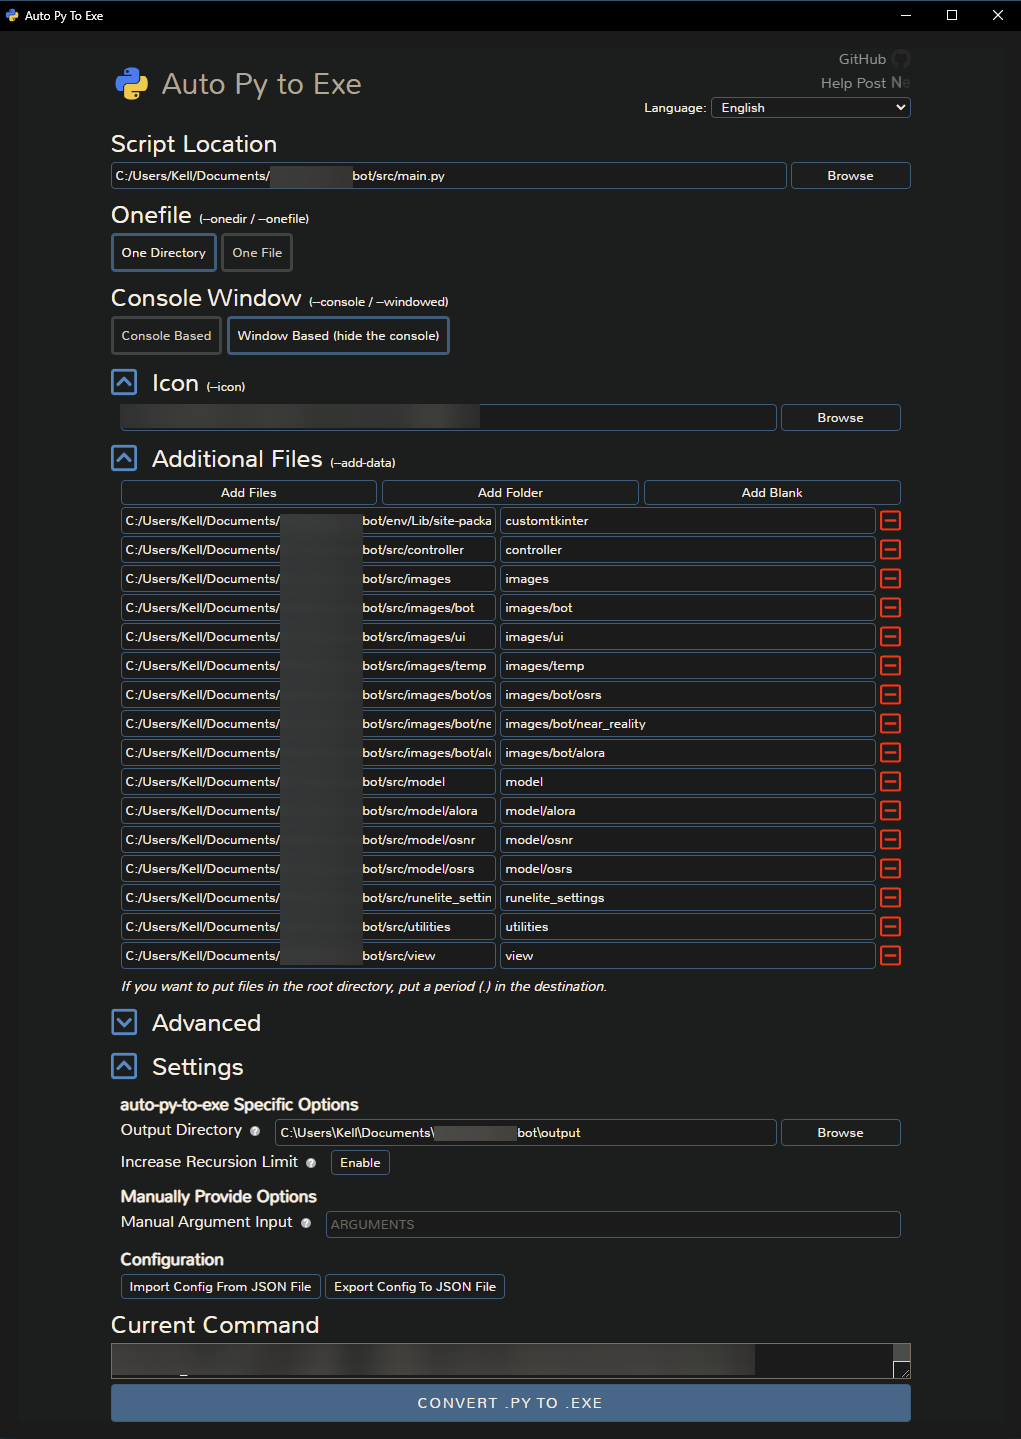
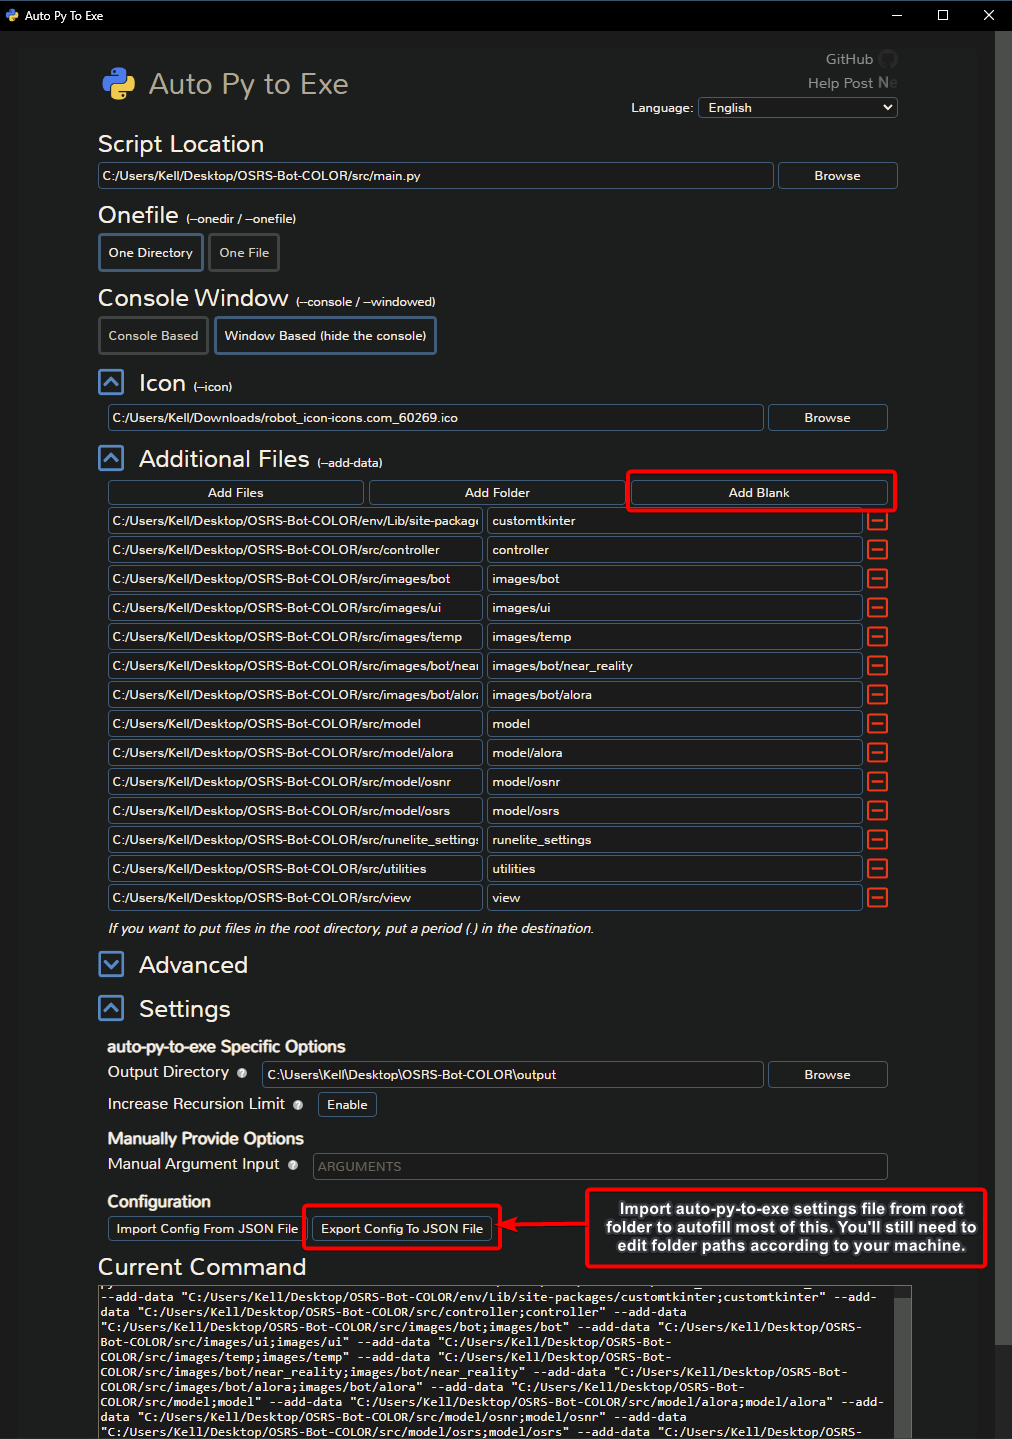
Fixed exe export

diff --git a/README.md b/README.md
@@ -175,6 +175,7 @@ Making this project into an executable is kind of tedious. Due to some issues wi
 3. Run AutoPyToEXE via the terminal command. ```auto-py-to-exe```
    1. The APTE app should open in a new window.
 4. Configure the window similarly to this: ![](documentation/wiki_images/auto-py-to-exe-settings.png)
+5. Rename ./output/main to ./output/src. Then you can run main.exe within that folder.
 
 *Note: Auto Py to EXE hates deep file structures. In order for the executable directory to retain the original folder structure, you have to tediously point to each subfolder in the project. Do this by clicking the "Add Blank" button under "Additional Files". See image above, it should work.*
 
